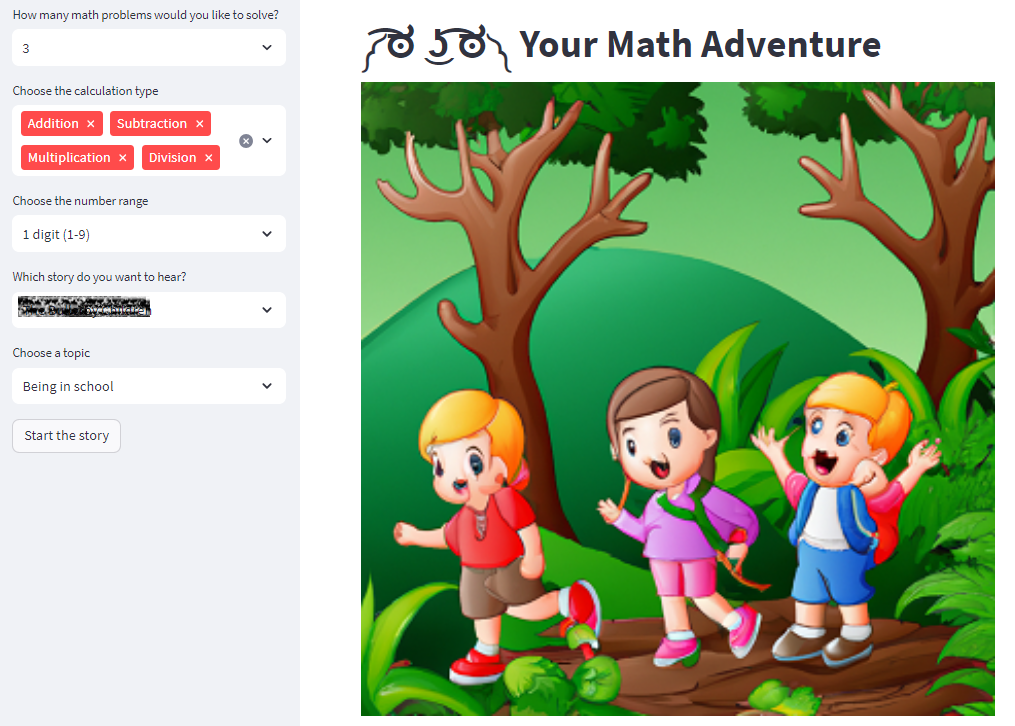
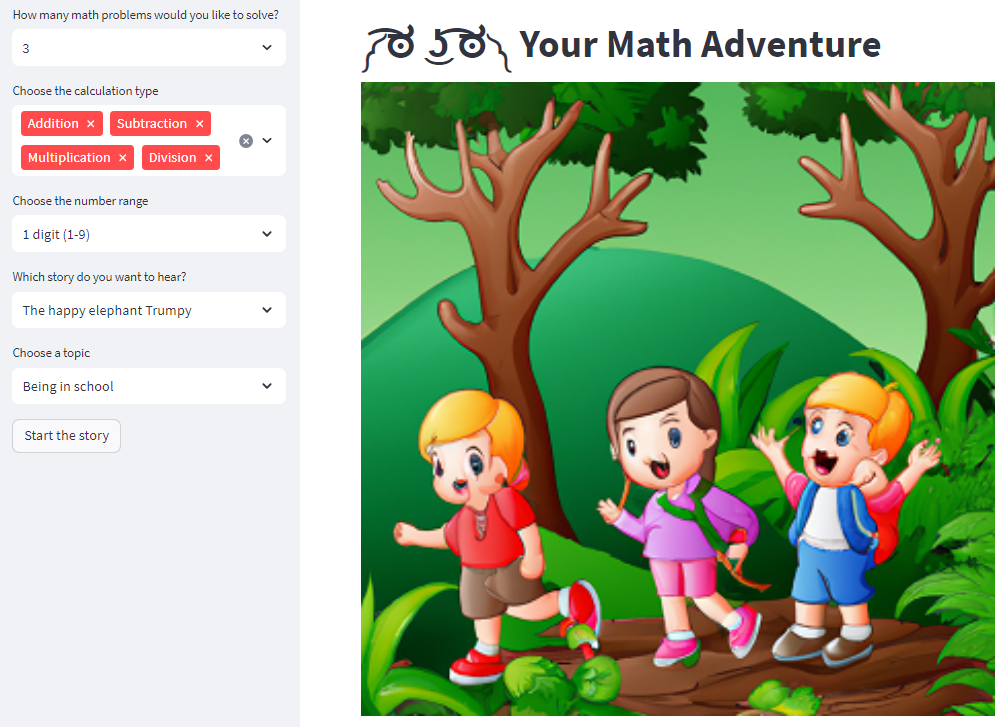
actors and stories as constants

diff --git a/math_story_en.py b/math_story_en.py
@@ -9,7 +9,9 @@ from PIL import Image
 # Constants
 SENTENCES_PER_EPISODE = 5   # number of sentences per episode
 RIDDLE_MIN = 2 # minimum number for riddles
-MODEL = "gpt-3.5-turbo-0613" # set to best performing model
+MODEL = "gpt-3.5-turbo-0613" # use a better performing gpt model if possible
+STORY_CHARACTERS = ["The happy elephant Trumpy", "The lifely boy Leon", "The funny girl Emma", "The lazy dog Fred"] # list your characters here
+STORY_TOPICS = ["Being in school", "Playing in the woods", "Going shopping in the city", "Camping in the backyard", "Riding horses"] # list your topics here
 
 # Load OpenAI key from .env file
 load_dotenv(".env")
@@ -118,8 +120,8 @@ if st.session_state['input_done'] == False:
         st.selectbox("How many math problems would you like to solve?", [3, 5, 7, 10], key="riddle_count", index=0)
         st.multiselect("Choose the calculation type", ["Addition", "Subtraction", "Multiplication", "Division"], key="calculation_type", default=["Addition", "Subtraction", "Multiplication", "Division"])
         st.selectbox("Choose the number range", ["1 digit (1-9)", "2 digits (1-99)"], key="number_range", index=0)
-        st.selectbox("Which story do you want to hear?", ["The Bullerby Children", "Pippi Longstocking", "Emil of Lönneberga"], key="person", index=0)
-        st.selectbox("Choose a topic", ["Being in school", "Playing in the woods", "Going shopping in the city", "Camping in the backyard", "Riding horses"], key="topic", index=0)
+        st.selectbox("Which story do you want to hear?", STORY_CHARACTERS, key="person", index=0)
+        st.selectbox("Choose a topic", STORY_TOPICS, key="topic", index=0)
         if st.button("Start the story", key="start_btn"):
             st.session_state['input_done'] = True
             if st.session_state['number_range'] == "1 digit (1-9)":
@@ -147,6 +149,6 @@ if st.session_state['input_done']:
 
     if not st.session_state['finished']:
         with st.container():
-            st.number_input("Your solution:", min_value=0, max_value=100, 
-                            value=1, step=1, on_change=on_input_change, 
+            st.number_input("Your solution:", min_value=-1, max_value=100, 
+                            value=-1, step=1, on_change=on_input_change, 
                             key="user_input"+str(st.session_state['current_task']))

diff --git a/math_story_de.py b/math_story_de.py
@@ -9,7 +9,10 @@ from PIL import Image
 # Konstanten
 SENTENCES_PER_EPISODE = 5
 RIDDLE_MIN = 2
-MODEL = "gpt-3.5-turbo-0613"
+MODEL = "gpt-3.5-turbo-0613" # Update: Verwende ein besser performendes GPT-Modell, wenn möglich
+STORY_CHARACTERS = ["Der fröhliche Elefant Trumpy", "Der lebenslustige Junge Leon", "Das lustige Mädchen Emma", "Der faule Hund Fred"] # Durch deine Charaktere ersetzen
+STORY_TOPICS = ["In der Schule sein", "Im Wald spielen", "In der Stadt einkaufen gehen", "Im Hinterhof campen", "Pferde reiten"] # Durch deine Themen ersetzen
+
 
 # OpenAI Schlüssel aus .env Datei laden
 load_dotenv(".env")
@@ -118,8 +121,8 @@ if st.session_state['input_done'] == False:
         st.selectbox("Wie viele Matheaufgaben möchtest du lösen?", [3, 5, 7, 10], key="riddle_count", index=0)
         st.multiselect("Wähle den Rechentyp", ["Addition", "Subtraktion", "Multiplikation", "Division"], key="calculation_type", default=["Addition", "Subtraktion", "Multiplikation", "Division"])
         st.selectbox("Wähle den Zahlenbereich", ["1 Ziffer (1-9)", "2 Ziffern (1-99)"], key="number_range", index=0)
-        st.selectbox("Welche Geschichte möchtest du hören?", ["Die Kinder aus Bullerbü", "Pippi Langstrumpf", "Michel aus Lönneberga"], key="person", index=0)
-        st.selectbox("Wähle ein Thema", ["In der Schule sein", "Im Wald spielen", "In der Stadt einkaufen gehen", "Im Hinterhof campen", "Pferde reiten"], key="topic", index=0)
+        st.selectbox("Welche Geschichte möchtest du hören?", STORY_CHARACTERS, key="person", index=0)
+        st.selectbox("Wähle ein Thema", STORY_TOPICS , key="topic", index=0)
         if st.button("Die Geschichte starten", key="start_btn"):
             st.session_state['input_done'] = True
             if st.session_state['number_range'] == "1 Ziffer (1-9)":
